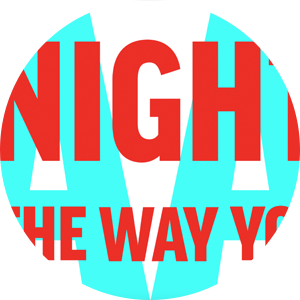
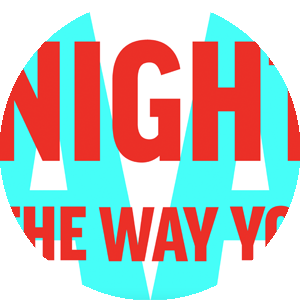
Replace Sax images
Change grey placeholder to white

diff --git a/sax.html b/sax.html
@@ -6,26 +6,26 @@ title: Sax · Sommerfeldesigns
 <img class="img-flex video" src="{{site.baseurl}}/images/reel.jpg" alt="A short film showcasing recent work.">
 <h1 class="text-center yotta pad-t">Sax · Case Study</h1>
 <p class="gutter pad-b-1-2">Sax is the title of the song by Fleur East and the lyrics for the Kinetic Type project. The colours were drawn from the original music video, as well as the transitions. The font choices are based off of the single’s cover. The goal of this assignment was to understand the Null Object’s many uses and stay true to the artist’ final vision.</p>
-<div class="grid text-center gutter-2">
-  <div class="unit xs-1 s-1 m-1 l-1-3 xl-1-3 pad-b gutter-1-2">
+<div class="grid text-center gutter">
+  <div class="unit xs-1 s-1 m-1 l-1-3 xl-1-3 pad-b-2 gutter">
     <img class="img-flex" src="{{site.baseurl}}/images/sax/sax-music-video.png" alt="The Sax music video still frame.">
   </div>
-  <div class="unit xs-1 s-1 m-1 l-1-3 xl-1-3 pad-b gutter-1-2">
+  <div class="unit xs-1 s-1 m-1 l-1-3 xl-1-3 pad-b-2 gutter">
     <img class="img-flex" src="{{site.baseurl}}/images/sax/sax-dancing.png" alt="Fleur East dancing still frame.">
   </div>
-  <div class="unit xs-1 s-1 m-1 l-1-3 xl-1-3 pad-b gutter-1-2">
+  <div class="unit xs-1 s-1 m-1 l-1-3 xl-1-3 pad-b-2 gutter">
     <img class="img-flex" src="{{site.baseurl}}/images/sax/sax-clapping.png" alt="Fleur East clapping still frame.">
   </div>
   <div class="unit xs-1 s-1 m-1 l-1 xl-1">
-    <img class="img-flex gutter" src="{{site.baseurl}}/images/sax/sax-storyboard.svg" alt="The Sax storyboard.">
+    <img class="img-flex" src="{{site.baseurl}}/images/sax/sax-storyboard.svg" alt="The Sax storyboard.">
     <p class="left micro">Sax storyboard</p>
   </div>
   <div class="unit xs-1 s-1 m-1 l-1 xl-1">
-    <img class="img-flex gutter" src="{{site.baseurl}}/images/sax/sax-style-frames.svg" alt="The Sax style frames.">
+    <img class="img-flex" src="{{site.baseurl}}/images/sax/sax-style-frames.svg" alt="The Sax style frames.">
     <p class="left micro">Sax style frames</p>
   </div>
   <div class="unit xs-1 s-1 m-1 l-1 xl-1">
-    <img class="img-flex gutter box-shadow" src="{{site.baseurl}}/images/sax/sax-layout.svg" alt="The Sax layout.">
+    <img class="img-flex box-shadow" src="{{site.baseurl}}/images/sax/sax-layout.svg" alt="The Sax layout.">
     <p class="left micro">Sax layout</p>
   </div>
 </div>
